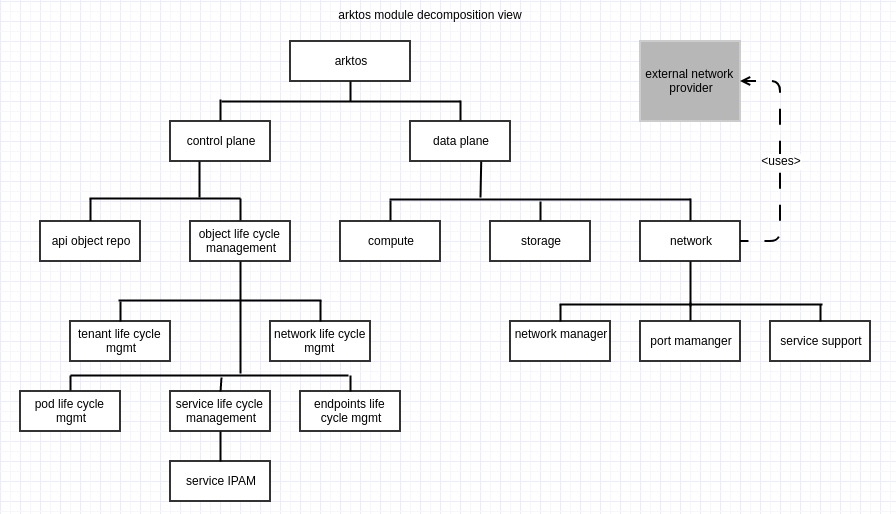
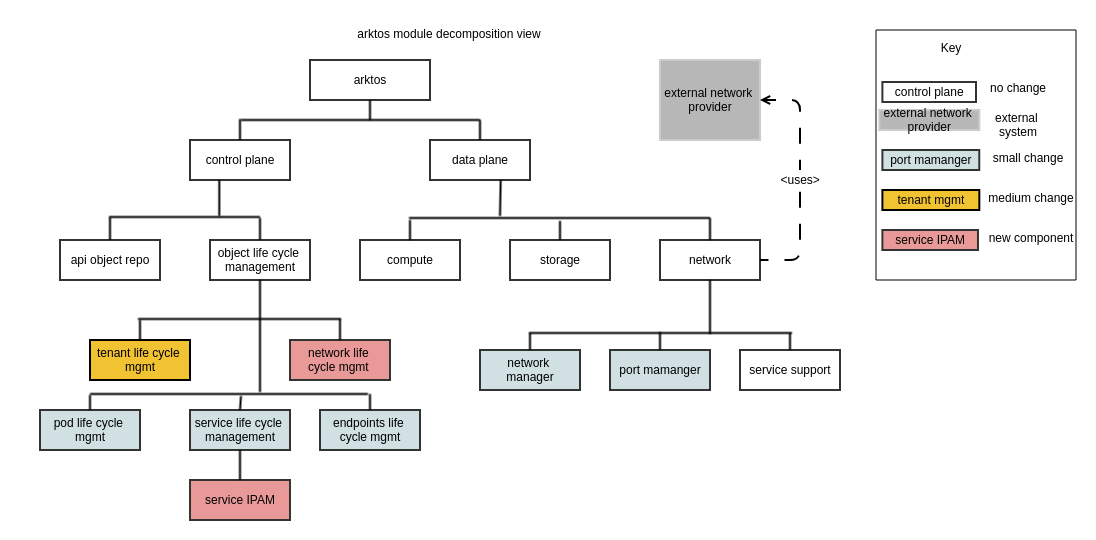
added external service ipam

Changed region(s): [[0.0, 0.0, 1.0, 0.9961], [0.7188, 0.3113, 0.75, 0.3424]]

diff --git a/docs/design-proposals/multi-tenancy/multi-tenancy-network.md b/docs/design-proposals/multi-tenancy/multi-tenancy-network.md
@@ -138,8 +138,8 @@ apiVersion: v1
 kind: Service
 metadata:
   name: my-service
-  network: my-netowrk
 spec:
+  network: my-netowrk
   selector:
     app: MyApp
   ports:
@@ -150,23 +150,37 @@ spec:
 
 #### Naming Problem & Solution
 
-The well-known services (kubernetes, kube-dns) present some problem here. Service kubernetes has tenant/namespace(default) scope in current implementation, unable to have multiple kubernets services with each of them in one network due to name conflict. The same applies to does kube-dns.
+Services, as one of the critical network related resource types, are withing the network boundary. There is no such *shared* services of tenant or whole cluster, as both the critical virtual IP address and the associated endpoints (typically leading to pods) are all of same network.
+
+Putting service type in tenant level is out of primacy as it has following flaws:
+1. service IP address has to be the same across all networks, which implies some range of service IP needs to be predefined as shared across networks of a tenant (tenant manageability burden);  
+1. associating network-agnostic service to network-specific endpoints would introduce significant inconsistency;
+1. kubectl query for service has no way to return meaningful content of endpoint.   
+
+The well-known services (default/kubernetes, kube-system/kube-dns) present some problem here. Service kubernetes has tenant/namespace(default) scope in current implementation, unable to have multiple kubernets services with each of them in one network due to name conflict. The same rational applies to kube-dns.
 
 One solution is to making its name colliding space to tenant+namespace+network, which is also breaking and inconsistent with other types (e.g. introducing network as one more parameter to call kubectl get service).
 
 Another solution is to change their name to schema that can uniquely differentiate by combining with network name; this is awkward and breaking in general. 
 
-One plausible remedy is making stringent containment of network to namespaces - resources in one namespace belongs solely to one network; one network can accommodate multiple namespace. This cannot handle kubernetes service problem, as it is of default namespace.
+One plausible remedy is making stringent containment of network to namespaces - resources in one namespace belongs solely to one network; one network can accommodate multiple namespace. This cannot handle the default/kubernetes service problem, as it is of default namespace.
 
 None of the two of above seems ideal. However, the latter, tweaking with the service name, coupled with trick applicable only to kubernetes & kube-dns, seems pragmatic and practical. The idea is suffixing service name with network name, also putting proper alias record in DNS database so that pods are able to look up by kubernetes and kube-dns common name. This approach is not flexible; it works fine with limited number of well-known alias, though.
 
+One of the confusions is ```kubectl get service kubenetes``` would fail with no such resource error - this is breaking, but for good reason - to remind users of service resource being network specific in our system. Pods are able to query DNS for kubernetes without caring about the new name schema as they are network related and able to locate the proper DNS service in the interesting network scope.
+
 #### Service IP
 
-Service IP address is allocated from network-specific pool. Each network might have different range of service IPs.
+Service IP address is allocated from the network-specific pool. 
+
+These are two types of service IP pool:
+
+##### Arktos managed pool
+Service IP addresses are explicitly managed by Arktos for every network. Each network might have different range of service IPs.
 
 Service IPAM is provided through 2 changes:
 
-1. each network object specifies its service ip range;
+1. each network object specifies its service IP range;
 
     ```yaml
     apiVersion: v1
@@ -175,10 +189,29 @@ Service IPAM is provided through 2 changes:
       name: default
     spec:
       type: flat
-      cidr: 10.0.0.1/24
+      service:
+      - cidr: 10.0.0.0/16
+      - cidr: 192.168.0.0/24
     ```
    
 1. on service creation, some mechanism to assign service the proper IP address.
+
+##### Network provider managed pool
+Service IP addresses are implicitly managed by the capable network provider. Network object can have the service IP cidr (or not); at best for information - Arktos delegates IPAM to the external network provider, via network controller invoking the service it provides. 
+
+Network object specifies service ipam as *external* (the default is k8s - managed by Arktos):
+
+    ```yaml
+    apiVersion: v1
+    kind: Network
+    metadata:
+      name: default
+    spec:
+      type: flat
+      service:
+        ipam: external
+      - cidr: 10.0.0.0/16
+    ```
 
 #### Semantic support
 
